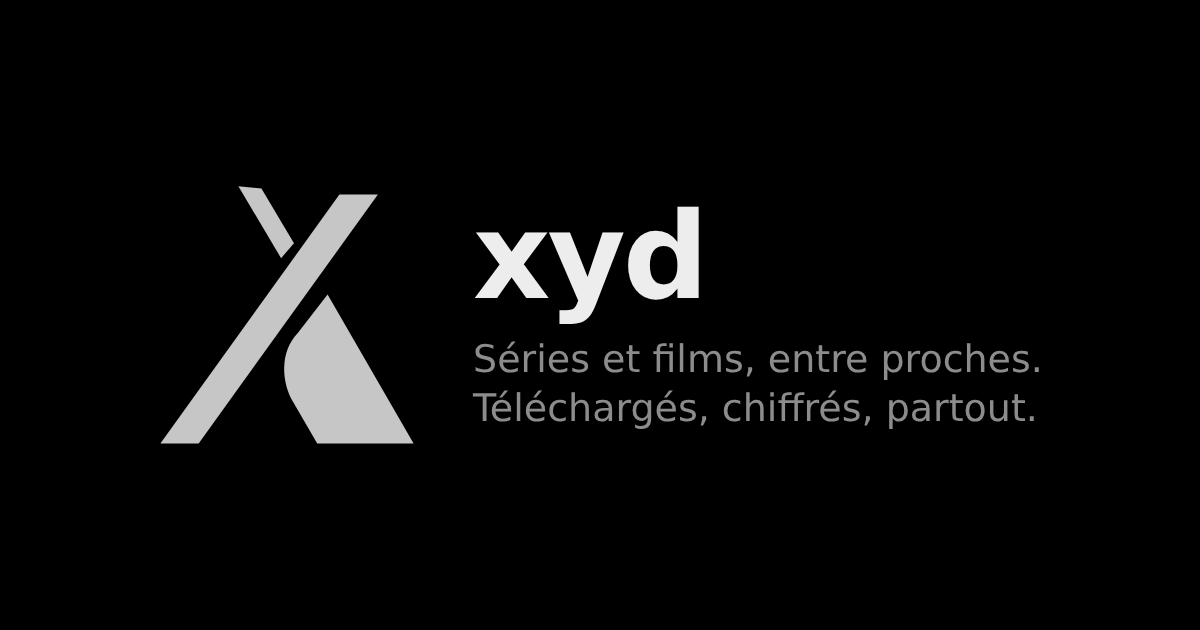
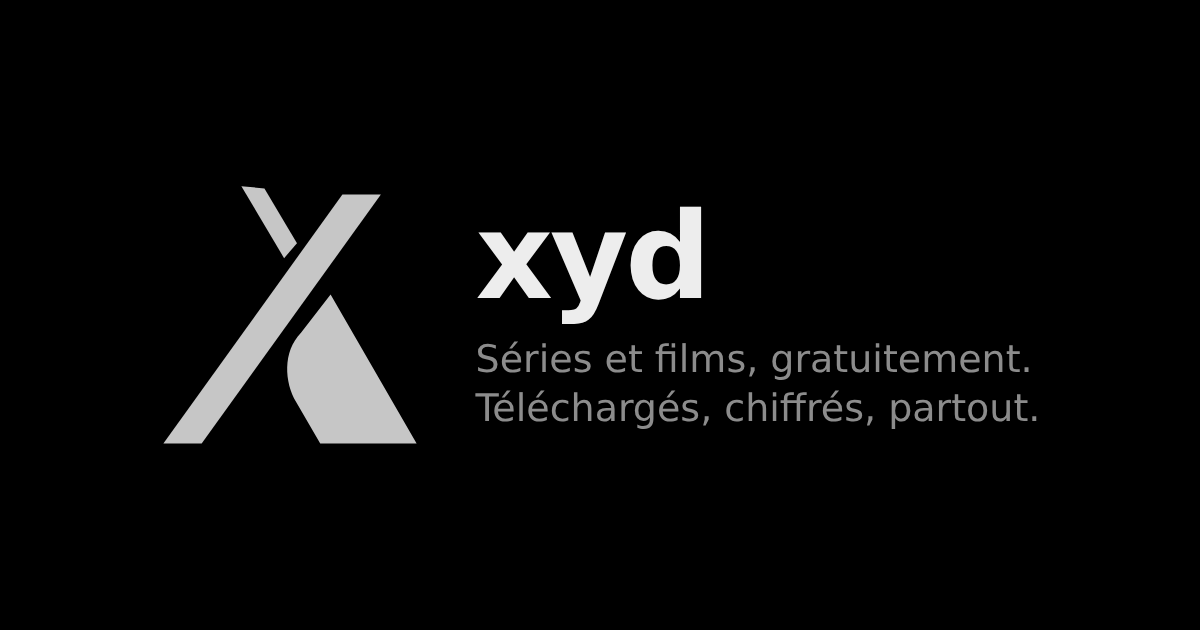
Site : slogan « Séries et films, gratuitement » (page, SEO, partage, image OG)
Claude-Session: https://claude.ai/code/session_01Qcx3c5cmg6mSgqySNHmTKh

diff --git a/web/index.html b/web/index.html
@@ -3,8 +3,8 @@
 <head>
 <meta charset="utf-8">
 <meta name="viewport" content="width=device-width, initial-scale=1, viewport-fit=cover">
-<title>xyd — Séries et films entre proches · Application Android</title>
-<meta name="description" content="xyd : regarde séries et films entre proches. Téléchargés, chiffrés, disponibles hors ligne. Application Android gratuite, installation en quelques secondes.">
+<title>xyd — Séries et films gratuitement · Application Android</title>
+<meta name="description" content="xyd : regarde séries et films gratuitement. Téléchargés, chiffrés, disponibles hors ligne. Application Android gratuite, installation en quelques secondes.">
 <meta name="robots" content="index, follow, max-image-preview:large">
 <meta name="theme-color" content="#000000">
 <meta name="color-scheme" content="dark">
@@ -23,21 +23,21 @@
 <meta property="og:site_name" content="xyd">
 <meta property="og:locale" content="fr_FR">
 <meta property="og:url" content="https://xydhub.tech/">
-<meta property="og:title" content="xyd — Séries et films entre proches">
+<meta property="og:title" content="xyd — Séries et films gratuitement">
 <meta property="og:description" content="Téléchargés, chiffrés, regardés où tu veux. Application Android gratuite.">
 <meta property="og:image" content="https://xydhub.tech/og-image.png">
 <meta property="og:image:secure_url" content="https://xydhub.tech/og-image.png">
 <meta property="og:image:type" content="image/png">
 <meta property="og:image:width" content="1200">
 <meta property="og:image:height" content="630">
-<meta property="og:image:alt" content="Logo xyd — Séries et films, entre proches.">
+<meta property="og:image:alt" content="Logo xyd — Séries et films, gratuitement.">
 
 <!-- X / Twitter -->
 <meta name="twitter:card" content="summary_large_image">
-<meta name="twitter:title" content="xyd — Séries et films entre proches">
+<meta name="twitter:title" content="xyd — Séries et films gratuitement">
 <meta name="twitter:description" content="Téléchargés, chiffrés, regardés où tu veux. Application Android gratuite.">
 <meta name="twitter:image" content="https://xydhub.tech/og-image.png">
-<meta name="twitter:image:alt" content="Logo xyd — Séries et films, entre proches.">
+<meta name="twitter:image:alt" content="Logo xyd — Séries et films, gratuitement.">
 
 <!-- Données structurées (Google) -->
 <script type="application/ld+json">
@@ -54,7 +54,7 @@
     {
       "@type": "SoftwareApplication",
       "name": "xyd",
-      "description": "Séries et films, entre proches. Téléchargés, chiffrés, regardés où tu veux.",
+      "description": "Séries et films, gratuitement. Téléchargés, chiffrés, regardés où tu veux.",
       "url": "https://xydhub.tech/",
       "downloadUrl": "https://xydhub.tech/xyd.apk",
       "image": "https://xydhub.tech/icon-512.png",
@@ -108,7 +108,7 @@
 <main>
   <svg class="logo" viewBox="351 351 1230 1230" aria-hidden="true"><g fill="#C6C6C6"><path d="M736,357L845,367L999,627L938,697Z"/><path d="M1214,396L1396,396L548,1574L367,1574Z"/><path d="M1158,869L1565,1574L1109,1574L995,1378C940,1285 930,1140 1018,1050Z"/></g></svg>
   <h1>xyd</h1>
-  <p class="tag">Séries et films, entre proches.<br>Téléchargés, chiffrés, regardés où tu veux.</p>
+  <p class="tag">Séries et films, gratuitement.<br>Téléchargés, chiffrés, regardés où tu veux.</p>
 
   <a class="btn" href="xyd.apk" download>
     <svg viewBox="0 0 24 24" fill="currentColor" aria-hidden="true"><path d="M19 9h-4V3H9v6H5l7 7 7-7zM5 18v2h14v-2H5z"/></svg>
